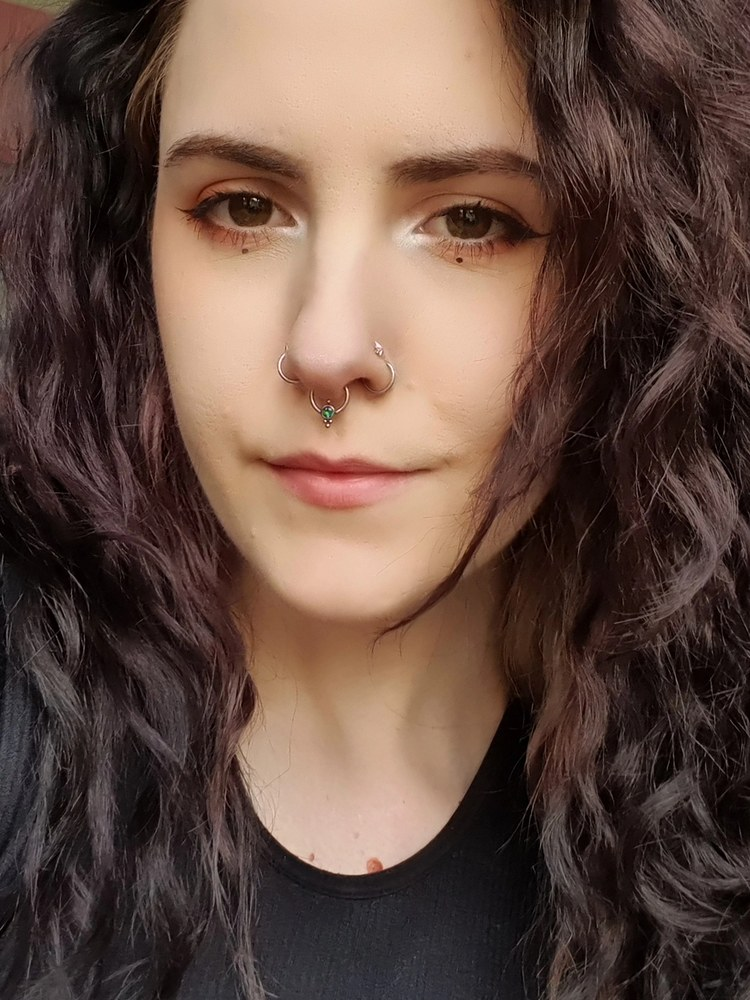
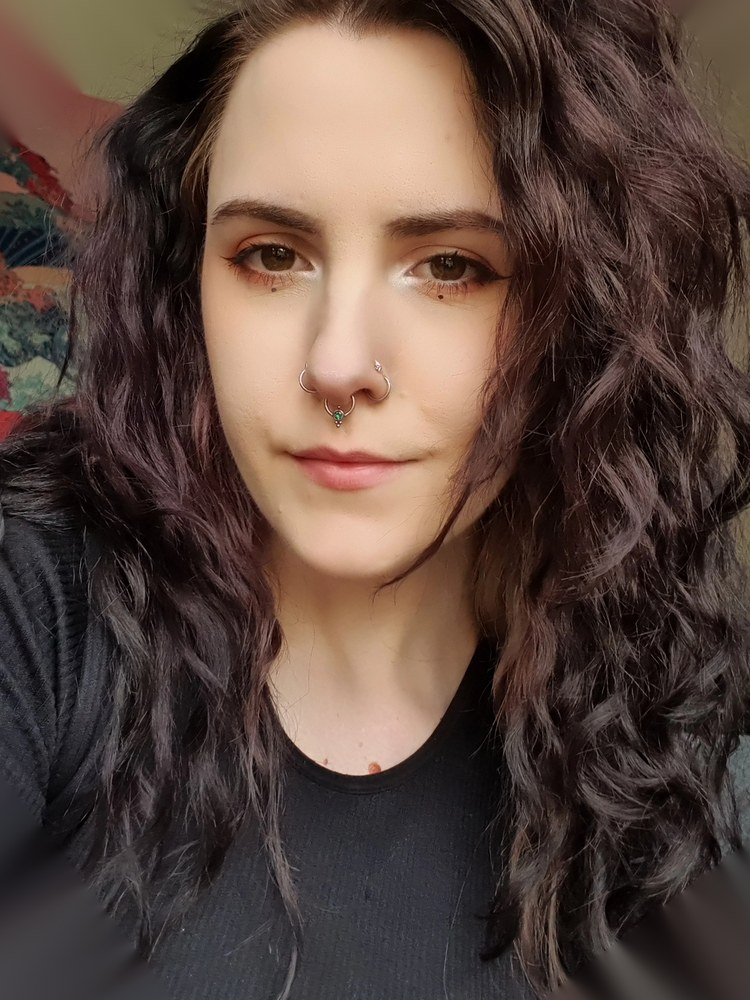
martin
github fixing things

diff --git a/styles.css b/styles.css
@@ -173,11 +173,21 @@ ul{margin:0;padding:0;list-style:none;}
 .about-stats{display:flex;flex-direction:column;gap:18px;}
 .about-actions{margin-top:8px;}
 .stat-card{
-  background:var(--ink-3);border:1px solid rgba(244,244,239,.08);
-  border-radius:20px;padding:26px 28px;
+  position:relative;background:var(--ink-3);border:1px solid rgba(244,244,239,.08);
+  border-radius:22px 6px 20px 6px;padding:26px 28px 26px 32px;
+  border-left:3px solid var(--teal);
+  overflow:hidden;
 }
-.stat-num{display:block;font-family:var(--font-display);font-size:2.6rem;font-weight:800;color:var(--teal-bright);line-height:1;}
-.stat-label{display:block;margin-top:8px;font-size:.9rem;color:var(--muted);}
+.stat-card::before{
+  content:"";position:absolute;top:-30%;right:-15%;width:120px;height:120px;
+  background:radial-gradient(circle, rgba(111,238,208,.14), transparent 70%);
+  pointer-events:none;
+}
+.stat-card:nth-child(2){border-radius:6px 22px 6px 20px;border-left-color:var(--candy);}
+.stat-card:nth-child(2)::before{background:radial-gradient(circle, rgba(255,92,122,.14), transparent 70%);}
+.stat-card:nth-child(2) .stat-num{color:var(--candy-2);}
+.stat-num{position:relative;display:block;font-family:var(--font-display);font-size:2.6rem;font-weight:800;color:var(--teal-bright);line-height:1;}
+.stat-label{position:relative;display:block;margin-top:8px;font-size:.9rem;color:var(--muted);}
 
 /* ===== Sweet Deceit / game ===== */
 .game{background:var(--ink);padding:64px 0 100px;}
